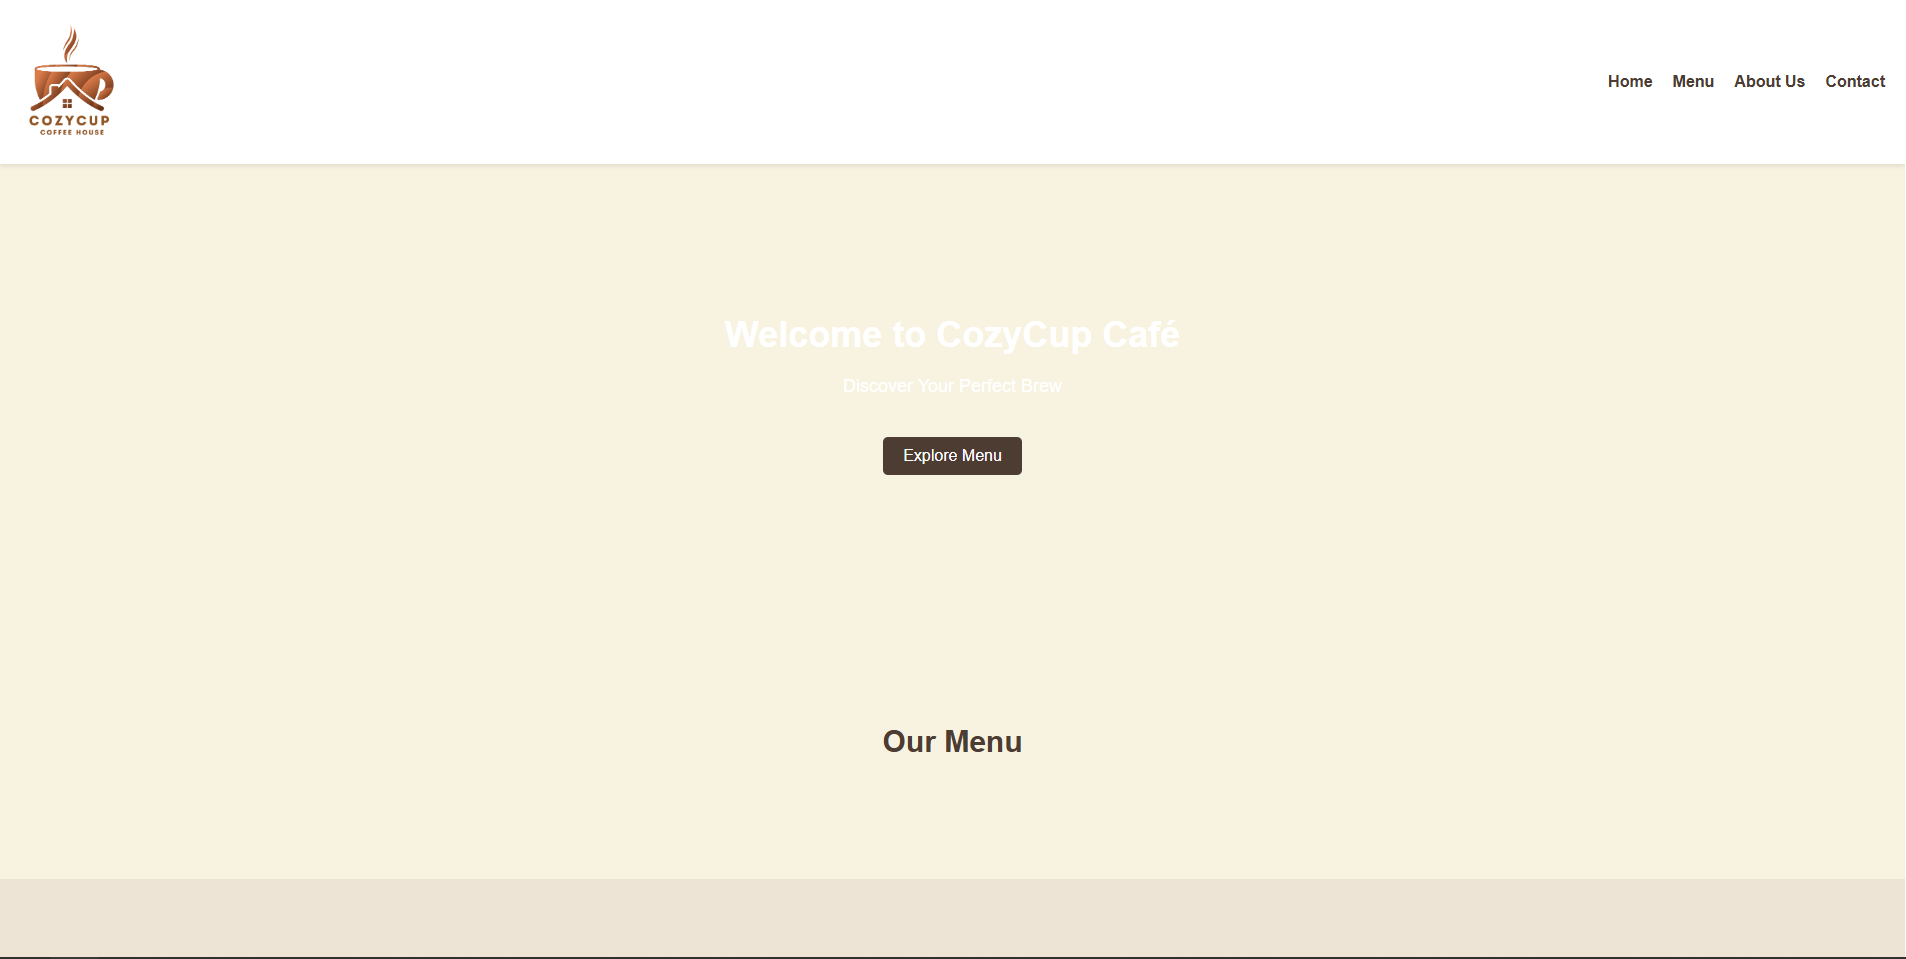
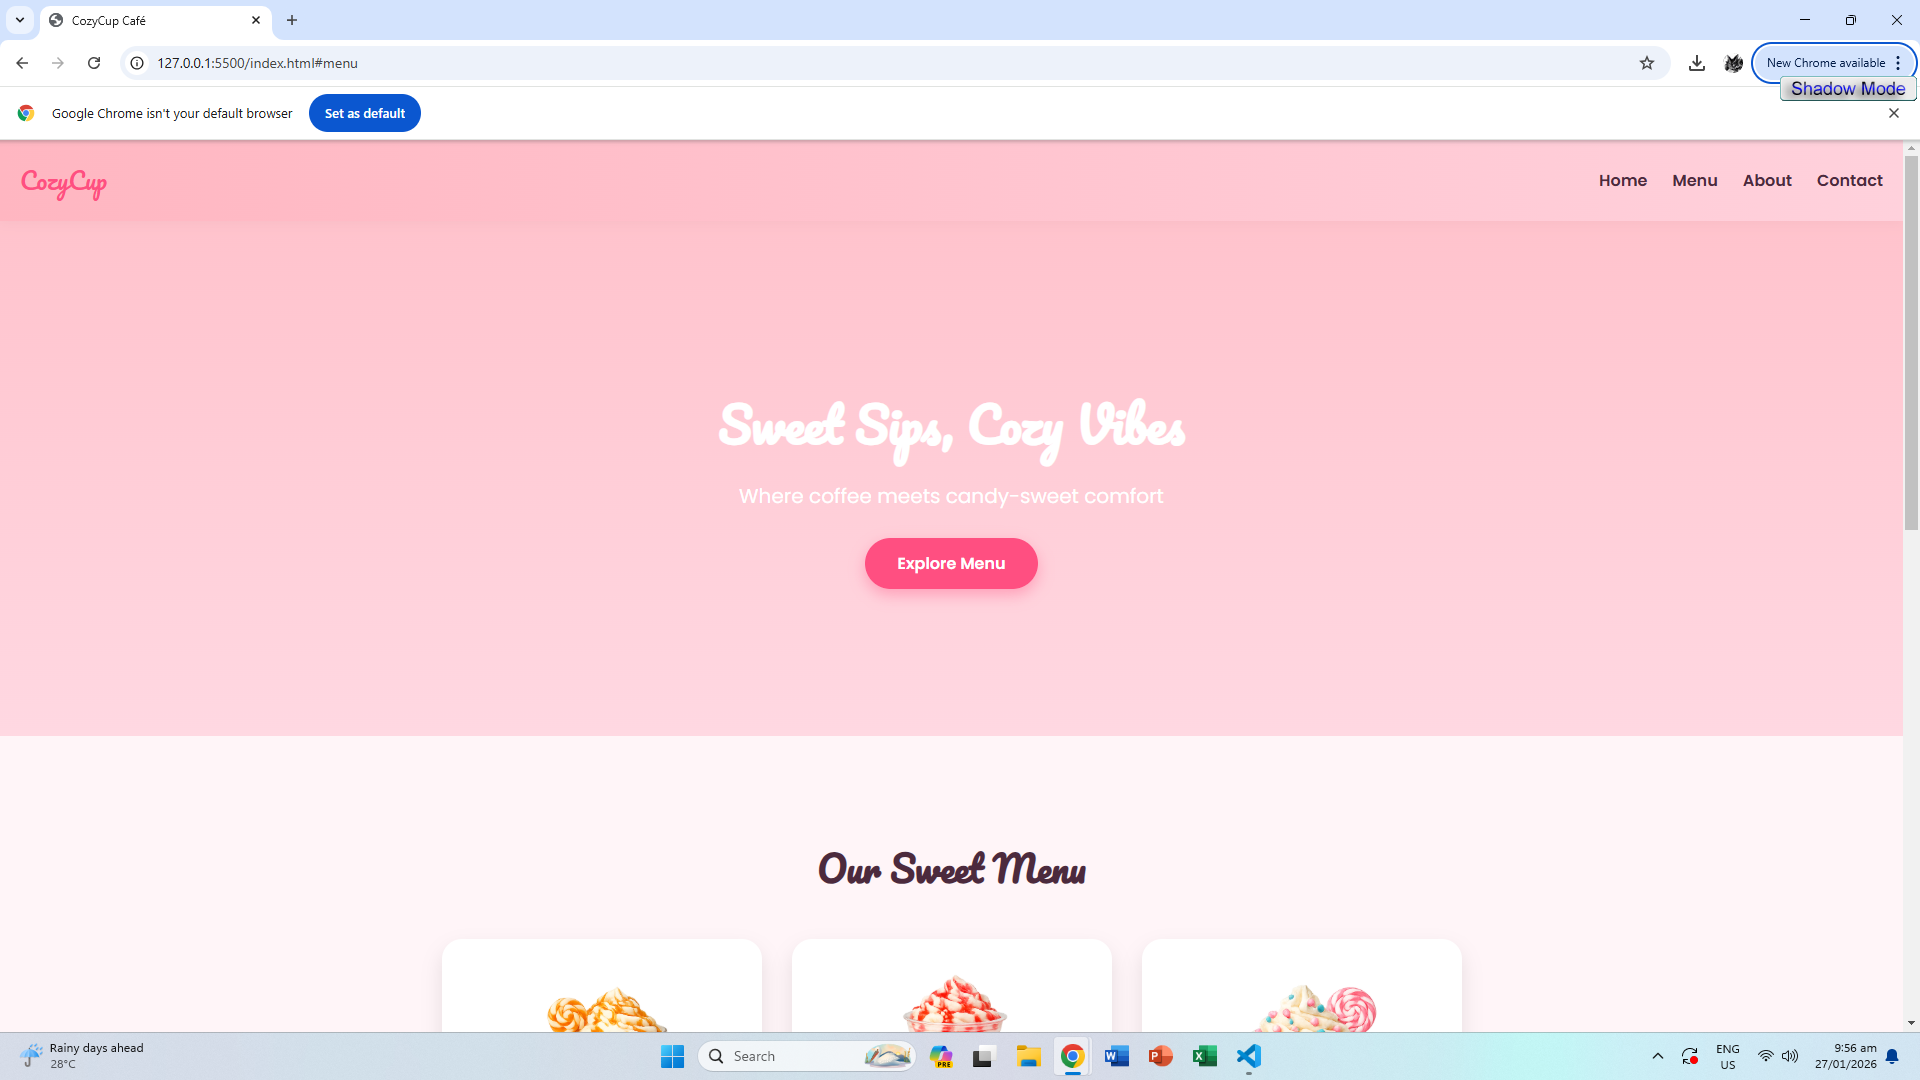
Final Changes

diff --git a/css/styles.css b/css/styles.css
@@ -1,19 +1,21 @@
-/* Reset some default styles */
+/* Reset */
 body, h1, h2, h3, p, ul, li {
     margin: 0;
     padding: 0;
 }
 
+/* Global */
 body {
-    font-family: Arial, sans-serif;
-    background-color: #f8f2e0;
-    color: #4c3c32;
+    font-family: 'Poppins', sans-serif;
+    background-color: #fff5f8;
+    color: #4c2a3d;
 }
 
+/* Header */
 header {
-    background-color: #fff;
-    box-shadow: 0 2px 5px rgba(0, 0, 0, 0.1);
+    background: linear-gradient(90deg, #ffb6c1, #ffd1dc);
     padding: 20px;
+    box-shadow: 0 4px 10px rgba(0,0,0,0.1);
 }
 
 nav {
@@ -22,105 +24,152 @@ nav {
     align-items: center;
 }
 
+.logo {
+    display: flex;
+    align-items: center;
+    gap: 10px;
+}
+
 .logo img {
-    max-width: 100px;
+    width: 50px;
+}
+
+.logo span {
+    font-family: 'Pacifico', cursive;
+    font-size: 24px;
+    color: #ff4f81;
 }
 
 nav ul {
     list-style: none;
     display: flex;
-    gap: 20px;
+    gap: 25px;
 }
 
 nav a {
     text-decoration: none;
-    color: #4c3c32;
-    font-weight: bold;
-    transition: color 0.3s;
+    color: #4c2a3d;
+    font-weight: 600;
 }
 
 nav a:hover {
-    color: #7e685b;
+    color: #ff4f81;
 }
 
+/* Hero */
 .hero {
     text-align: center;
-    padding: 150px 0;
-    background-image: url('hero-bg.jpg');
+    padding: 160px 20px;
+    background: linear-gradient(rgba(255,182,193,0.8), rgba(255,209,220,0.8)),
+                url("../img/hero-bg.jpg");
     background-size: cover;
     color: white;
 }
 
 .hero h1 {
-    font-size: 36px;
-    margin-bottom: 20px;
+    font-family: 'Pacifico', cursive;
+    font-size: 48px;
+    margin-bottom: 15px;
 }
 
 .hero p {
-    font-size: 18px;
+    font-size: 20px;
     margin-bottom: 40px;
 }
 
 .cta-button {
-    display: inline-block;
-    padding: 10px 20px;
-    background-color: #4c3c32;
+    padding: 14px 32px;
+    background-color: #ff4f81;
     color: white;
     text-decoration: none;
-    border-radius: 5px;
+    border-radius: 30px;
+    font-weight: bold;
+    box-shadow: 0 6px 15px rgba(255,79,129,0.4);
 }
 
 .cta-button:hover {
-    background-color: #7e685b;
+    background-color: #ff2f6d;
 }
 
+/* Menu */
 .menu {
-    padding: 100px 0;
+    padding: 100px 20px;
     text-align: center;
 }
 
 .menu h2 {
-    font-size: 30px;
-    margin-bottom: 20px;
+    font-family: 'Pacifico', cursive;
+    font-size: 36px;
+    margin-bottom: 40px;
 }
 
+.menu-items {
+    display: flex;
+    justify-content: center;
+    gap: 30px;
+    flex-wrap: wrap;
+}
+
+.menu-card {
+    background-color: white;
+    padding: 30px;
+    width: 260px;
+    border-radius: 20px;
+    box-shadow: 0 10px 20px rgba(0,0,0,0.1);
+}
+.menu-card img {
+    width: 150px;
+    height: auto;
+    margin-bottom: 15px;
+    transition: transform 0.3s ease;
+}
+
+.menu-card:hover img {
+    transform: scale(1.05);
+}
+
+.menu-card h3 {
+    color: #ff4f81;
+    margin-bottom: 10px;
+}
+
+/* About */
 .about {
-    padding: 100px 0;
+    padding: 100px 20px;
+    background-color: #ffe4ec;
     text-align: center;
-    background-color: #ede4d6;
 }
 
 .about h2 {
-    font-size: 30px;
+    font-family: 'Pacifico', cursive;
+    font-size: 36px;
     margin-bottom: 20px;
 }
 
 .about p {
-    font-size: 18px;
     max-width: 800px;
-    margin: 0 auto;
+    margin: auto;
+    font-size: 18px;
 }
 
+/* Contact */
 .contact {
-    padding: 100px 0;
+    padding: 100px 20px;
     text-align: center;
-    background-color: #4c3c32;
+    background-color: #ff4f81;
     color: white;
 }
 
 .contact h2 {
-    font-size: 30px;
+    font-family: 'Pacifico', cursive;
+    font-size: 36px;
     margin-bottom: 20px;
 }
 
-.contact p {
-    font-size: 18px;
-    margin-bottom: 40px;
-}
-
+/* Footer */
 footer {
-    background-color: #4c3c32;
+    background-color: #4c2a3d;
     color: white;
     text-align: center;
-    padding: 20px 0;
+    padding: 20px;
 }

diff --git a/index.html b/index.html
@@ -4,46 +4,77 @@
     <meta charset="UTF-8">
     <meta name="viewport" content="width=device-width, initial-scale=1.0">
     <link rel="stylesheet" href="css/styles.css">
+    <link href="https://fonts.googleapis.com/css2?family=Poppins:wght@400;600&family=Pacifico&display=swap" rel="stylesheet">
     <title>CozyCup Café</title>
 </head>
 <body>
-    <header>
-        <nav>
-            <div class="logo">
-                <img src="img/logo.png" alt="CozyCup Café Logo">
-            </div>
-            <ul>
-                <li><a href="#home">Home</a></li>
-                <li><a href="#menu">Menu</a></li>
-                <li><a href="#about">About Us</a></li>
-                <li><a href="#contact">Contact</a></li>
-            </ul>
-        </nav>
-    </header>
 
-    <section id="home" class="hero">
-        <h1>Welcome to CozyCup Café</h1>
-        <p>Discover Your Perfect Brew</p>
-        <a href="#menu" class="cta-button">Explore Menu</a>
-    </section>
+<header>
+    <nav>
+        <div class="logo">
+            <span>CozyCup</span>
+        </div>
+        <ul>
+            <li><a href="#home">Home</a></li>
+            <li><a href="#menu">Menu</a></li>
+            <li><a href="#about">About</a></li>
+            <li><a href="#contact">Contact</a></li>
+        </ul>
+    </nav>
+</header>
 
-    <section id="menu" class="menu">
-        <h2>Our Menu</h2>
-        <!-- Add menu items here -->
-    </section>
+<section id="home" class="hero">
+    <h1>Sweet Sips, Cozy Vibes</h1>
+    <p>Where coffee meets candy-sweet comfort</p>
+    <a href="#menu" class="cta-button">Explore Menu</a>
+</section>
 
-    <section id="about" class="about">
-        <h2>About Us</h2>
-        <p>Discover the story behind CozyCup Café...</p>
-    </section>
+<section id="menu" class="menu">
+    <h2>Our Sweet Menu</h2>
 
-    <section id="contact" class="contact">
-        <h2>Contact Us</h2>
-        <p>Have questions or feedback? Reach out to us...</p>
-    </section>
+    <div class="menu-items">
+        <div class="menu-card">
+            <img src="img/caramel.png" alt="Caramel Lollipop Latte">
+            <h3>Caramel Lollipop Latte</h3>
+            <p>Rich espresso with caramel sweetness</p>
+            <p>₱ 180</p>
+        </div>
 
-    <footer>
-        <p>&copy; 2023 CozyCup Café. All rights reserved.</p>
-    </footer>
+        <div class="menu-card">
+            <img src="img/strawberry.png" alt="Strawberry Milk Tea">
+            <h3>Strawberry Milk Tea</h3>
+            <p>Creamy, fruity, and refreshing</p>
+            <p>₱ 120</p>
+        </div>
+
+        <div class="menu-card">
+            <img src="img/vanilla.png" alt="Vanilla Candy Frappé">
+            <h3>Vanilla Candy Frappé</h3>
+            <p>Chilled, sweet, and dreamy</p>
+            <p>₱ 150</p>
+        </div>
+    </div>
+</section>
+
+<section id="about" class="about">
+    <h2>About CozyCup</h2>
+    <p>
+        CozyCup Café is a warm and welcoming café designed for people who love
+        relaxing with a good drink. It offers freshly brewed coffee, sweet treats,
+        and a cozy atmosphere that’s perfect for studying, hanging out with friends,
+        or taking a break from a busy day..
+    </p>
+</section>
+
+<section id="contact" class="contact">
+    <h2>Contact Us</h2>
+    <p>Emails: 202380378@psu.palawan.edu.ph / 202380325@psu.palawan.edu.ph</p>
+    <p>Location: Mapalad Street, Brgy. Tiniguiban, Puerto Princesa City</p>
+</section>
+
+<footer>
+    <p>&copy; 2025 CozyCup Café. All rights reserved.</p>
+</footer>
+
 </body>
 </html>

diff --git a/README.md b/README.md
@@ -7,7 +7,7 @@ Cozy Cup Cafe provides visitors with an easy way to explore our menu, learn abou
 
 • Menu: List of food and drinks with descriptions, prices, and optional images.
 
-• Contact/Location: Address, map, phone, email, business hours, and social links.
+• Contact/Location: Address, phone, email, business hours, and social links.
 
 • Online Ordering: Simple interface or link for pickup/delivery with payment options.
 
@@ -17,7 +17,7 @@ Cozy Cup Cafe provides visitors with an easy way to explore our menu, learn abou
 # Screen Captures
 Cozy Cup Cafe's Landing Page
 ![Home](img/Screenshot1.PNG)
-Cozy Cup Cafe's Menu (We don't have any serving YET!!)
+Cozy Cup Cafe's Menu
 ![Menu](img/Screenshot2.PNG)
 Cozy Cup Cafe's Creators
 ![AboutUs](img/Screenshot3.PNG)
